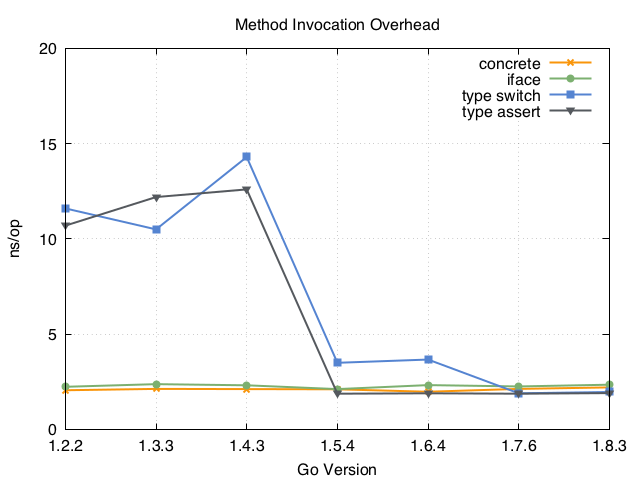
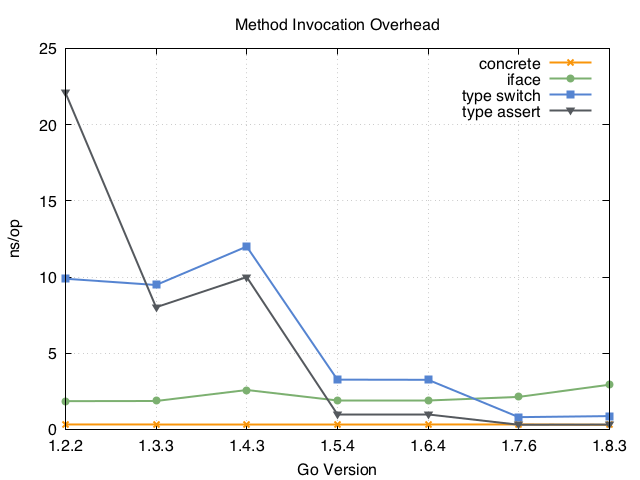
Improve iface convert data

diff --git a/interface/convert/convert_test.go b/interface/convert/convert_test.go
@@ -2,61 +2,59 @@ package convert
 
 import "testing"
 
-type myint int64
+type myStruct struct{}
 
-type Inccer interface {
-	inc()
+type myIface interface {
+	Foo()
 }
 
-func (i *myint) inc() {
-	*i = *i + 1
+func (*myStruct) Foo() {}
+
+func BenchmarkMethodConcrete(b *testing.B) {
+	m := new(myStruct)
+	invokeConcrete(m, b.N)
 }
 
-func BenchmarkIncrInt(b *testing.B) {
-	i := new(myint)
-	incrementInt(i, b.N)
+func BenchmarkMethodIface(b *testing.B) {
+	m := new(myStruct)
+	invokeIface(m, b.N)
 }
 
-func BenchmarkIncrIface(b *testing.B) {
-	i := new(myint)
-	incrementIface(i, b.N)
+func BenchmarkMethodTypeSwitch(b *testing.B) {
+	m := new(myStruct)
+	invokeTypeSwitch(m, b.N)
 }
 
-func BenchmarkIncrTypeSwitch(b *testing.B) {
-	i := new(myint)
-	incrementTypeSwitch(i, b.N)
+func BenchmarkMethodTypeAssert(b *testing.B) {
+	m := new(myStruct)
+	invokeTypeAssert(m, b.N)
 }
 
-func BenchmarkIncrTypeAsser(b *testing.B) {
-	i := new(myint)
-	incrementTypeAssert(i, b.N)
-}
-
-func incrementInt(i *myint, n int) {
+func invokeConcrete(m *myStruct, n int) {
 	for k := 0; k < n; k++ {
-		i.inc()
+		m.Foo()
 	}
 }
 
-func incrementIface(any Inccer, n int) {
+func invokeIface(m myIface, n int) {
 	for k := 0; k < n; k++ {
-		any.inc()
+		m.Foo()
 	}
 }
 
-func incrementTypeSwitch(any Inccer, n int) {
+func invokeTypeSwitch(m myIface, n int) {
 	for k := 0; k < n; k++ {
-		switch v := any.(type) {
-		case *myint:
-			v.inc()
+		switch v := m.(type) {
+		case *myStruct:
+			v.Foo()
 		}
 	}
 }
 
-func incrementTypeAssert(any Inccer, n int) {
+func invokeTypeAssert(m myIface, n int) {
 	for k := 0; k < n; k++ {
-		if newint, ok := any.(*myint); ok {
-			newint.inc()
+		if n, ok := m.(*myStruct); ok {
+			n.Foo()
 		}
 	}
 }
